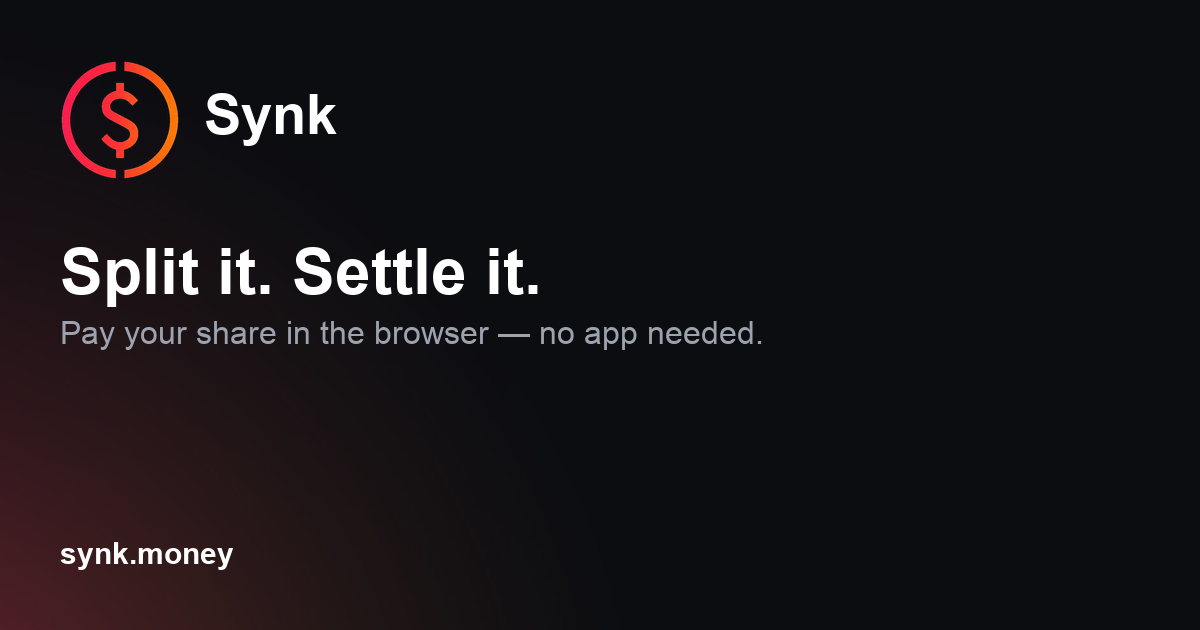
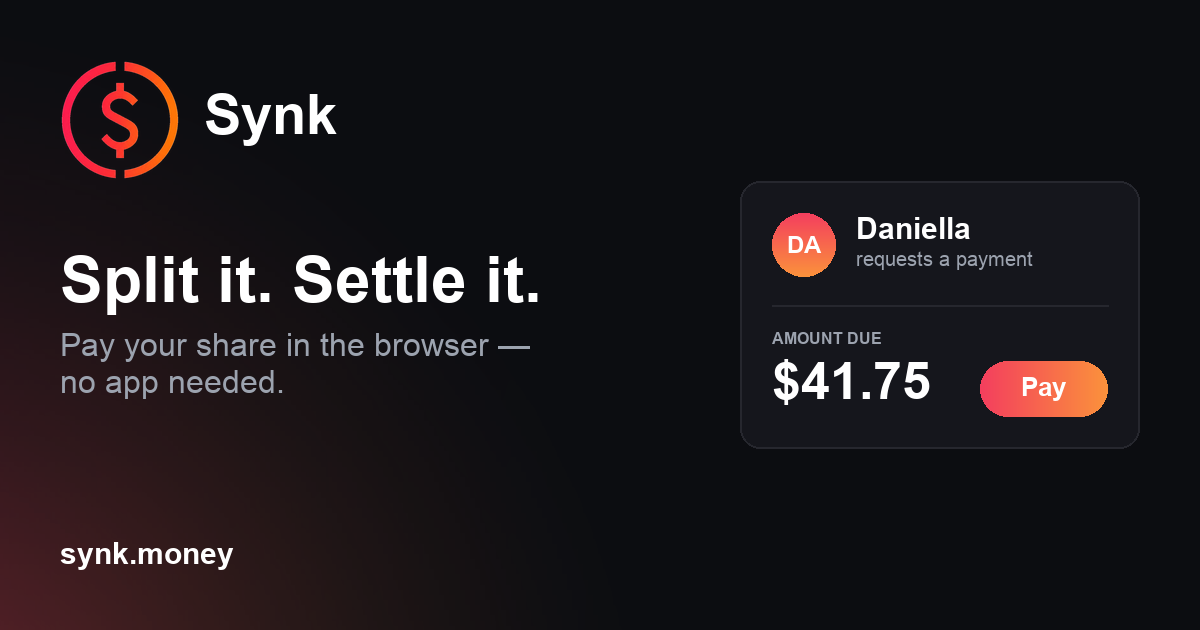
rebalance pay preview image

diff --git a/scripts/make-og-pay.py b/scripts/make-og-pay.py
@@ -6,7 +6,10 @@ payment links (used as OG_IMAGE_URL for /bill-join and /pay style pages).
 Matches the house style established by og-card.png / og-card-v2.png:
 dark ground, rose->orange glow bleeding from a corner, the coin mark +
 wordmark top-left, a bold white headline, a grey subline, and the
-synk.money domain tag bottom-left.
+synk.money domain tag bottom-left — plus (to mirror how og-card-v2
+shows the pool UI) a small "share row" product card on the right that
+shows what a pay link actually looks like: a name, an amount, and a
+gradient Pay pill.
 
 Usage: python3 scripts/make-og-pay.py
 """
@@ -26,6 +29,8 @@ ROSE = (0xF4, 0x3F, 0x5E)
 ORANGE = (0xFB, 0x92, 0x3C)
 GREY = (0x9C, 0xA3, 0xAF)
 WHITE = (0xFF, 0xFF, 0xFF)
+CARD_BG = (0x15, 0x16, 0x1C)
+CARD_BORDER = (0x26, 0x27, 0x2E)
 
 FONT_DIR = "/System/Library/Fonts/Supplemental"
 BOLD_FONT = os.path.join(FONT_DIR, "Arial Bold.ttf")
@@ -66,9 +71,56 @@ def make_corner_glow(size=900, alpha_max=130):
     return grad
 
 
+def linear_gradient(w, h, c0, c1, horizontal=True):
+    """Solid rose->orange linear gradient, opaque, size (w, h)."""
+    grad = Image.new("RGB", (w, h))
+    px = grad.load()
+    for x in range(w):
+        r = g = b = 0
+        if horizontal:
+            t = x / max(1, w - 1)
+            r = int(c0[0] * (1 - t) + c1[0] * t)
+            g = int(c0[1] * (1 - t) + c1[1] * t)
+            b = int(c0[2] * (1 - t) + c1[2] * t)
+        for y in range(h):
+            if not horizontal:
+                t2 = y / max(1, h - 1)
+                r = int(c0[0] * (1 - t2) + c1[0] * t2)
+                g = int(c0[1] * (1 - t2) + c1[1] * t2)
+                b = int(c0[2] * (1 - t2) + c1[2] * t2)
+            px[x, y] = (r, g, b)
+    return grad
+
+
+def rounded_mask(w, h, radius):
+    mask = Image.new("L", (w, h), 0)
+    d = ImageDraw.Draw(mask)
+    d.rounded_rectangle([0, 0, w - 1, h - 1], radius=radius, fill=255)
+    return mask
+
+
+def gradient_pill(w, h, radius):
+    grad = linear_gradient(w, h, ROSE, ORANGE, horizontal=True).convert("RGBA")
+    grad.putalpha(rounded_mask(w, h, radius))
+    return grad
+
+
+def gradient_circle(diameter):
+    grad = linear_gradient(diameter, diameter, ROSE, ORANGE, horizontal=False).convert("RGBA")
+    mask = Image.new("L", (diameter, diameter), 0)
+    ImageDraw.Draw(mask).ellipse([0, 0, diameter - 1, diameter - 1], fill=255)
+    grad.putalpha(mask)
+    return grad
+
+
 def text_size(draw, text, fnt):
     l, t, r, b = draw.textbbox((0, 0), text, font=fnt)
     return r - l, b - t, l, t
+
+
+def draw_centered_text(draw, cx, cy, text, fnt, fill):
+    w, h, l, t = text_size(draw, text, fnt)
+    draw.text((cx - w / 2 - l, cy - h / 2 - t), text, font=fnt, fill=fill)
 
 
 def main():
@@ -98,15 +150,19 @@ def main():
     # --- headline ---
     headline_font = font(BOLD_FONT, 64)
     headline = "Split it. Settle it."
-    hy = mark_y + mark_size + 56
+    hy = mark_y + mark_size + 64
     draw.text((MARGIN, hy), headline, font=headline_font, fill=WHITE)
     _, hh, _, ht = text_size(draw, headline, headline_font)
 
-    # --- subline ---
+    # --- subline (wrapped to two lines so it doesn't run under the card) ---
     sub_font = font(REG_FONT, 32)
-    subline = "Pay your share in the browser — no app needed."
-    sy = hy + hh - ht + 30
-    draw.text((MARGIN, sy), subline, font=sub_font, fill=GREY)
+    subline_1 = "Pay your share in the browser —"
+    subline_2 = "no app needed."
+    sy = hy + hh - ht + 34
+    draw.text((MARGIN, sy), subline_1, font=sub_font, fill=GREY)
+    _, sh1, _, st1 = text_size(draw, subline_1, sub_font)
+    sy2 = sy + sh1 - st1 + 14
+    draw.text((MARGIN, sy2), subline_2, font=sub_font, fill=GREY)
 
     # --- domain tag, bottom-left, matching og-card house style ---
     domain_font = font(BOLD_FONT, 30)
@@ -114,6 +170,73 @@ def main():
     dw, dh, dl, dt = text_size(draw, domain, domain_font)
     dy = H - MARGIN - dh - dt
     draw.text((MARGIN, dy), domain, font=domain_font, fill=WHITE)
+
+    # ================= product-anchor card, right side =================
+    # A small "share row" mock — this is what a real synk.money/pay link
+    # looks like: who it's for, what they owe, and the pill to pay it.
+    card_w, card_h = 400, 268
+    card_x2 = W - MARGIN
+    card_x1 = card_x2 - card_w
+    card_cy = H // 2
+    card_y1 = card_cy - card_h // 2
+    card_y2 = card_y1 + card_h
+    radius = 20
+    pad = 32
+
+    card = Image.new("RGBA", (card_w, card_h), (0, 0, 0, 0))
+    cdraw = ImageDraw.Draw(card)
+    cdraw.rounded_rectangle(
+        [0, 0, card_w - 1, card_h - 1], radius=radius, fill=(*CARD_BG, 255)
+    )
+    cdraw.rounded_rectangle(
+        [0, 0, card_w - 1, card_h - 1], radius=radius, outline=(*CARD_BORDER, 255), width=2
+    )
+
+    # Avatar + name/status row
+    avatar_d = 64
+    avatar = gradient_circle(avatar_d)
+    card.alpha_composite(avatar, (pad, pad))
+    initials_font = font(BOLD_FONT, 24)
+    draw_centered_text(
+        cdraw, pad + avatar_d / 2, pad + avatar_d / 2, "DA", initials_font, WHITE
+    )
+
+    name_font = font(BOLD_FONT, 30)
+    name_x = pad + avatar_d + 20
+    cdraw.text((name_x, pad - 2), "Daniella", font=name_font, fill=WHITE)
+    status_font = font(REG_FONT, 20)
+    cdraw.text((name_x, pad + 34), "requests a payment", font=status_font, fill=GREY)
+
+    # Divider
+    div_y = pad + avatar_d + 28
+    cdraw.line([(pad, div_y), (card_w - pad, div_y)], fill=CARD_BORDER, width=2)
+
+    # Amount label + value
+    label_font = font(BOLD_FONT, 16)
+    label_y = div_y + 24
+    cdraw.text((pad, label_y), "AMOUNT DUE", font=label_font, fill=GREY)
+
+    amount_font = font(BOLD_FONT, 52)
+    amount_y = label_y + 22
+    cdraw.text((pad, amount_y), "$41.75", font=amount_font, fill=WHITE)
+
+    # Pay pill, bottom-right of the card, gradient rose -> orange
+    pill_w, pill_h = 128, 56
+    pill_x1 = card_w - pad - pill_w
+    pill_y1 = card_h - pad - pill_h
+    pill = gradient_pill(pill_w, pill_h, radius=pill_h // 2)
+    card.alpha_composite(pill, (pill_x1, pill_y1))
+    pay_font = font(BOLD_FONT, 26)
+    draw_centered_text(
+        cdraw,
+        pill_x1 + pill_w / 2,
+        pill_y1 + pill_h / 2,
+        "Pay",
+        pay_font,
+        WHITE,
+    )
+
+    img.alpha_composite(card, (card_x1, card_y1))
 
     out_path = os.path.join(ASSETS, "og-pay.png")
     img.convert("RGB").save(out_path, "PNG")
